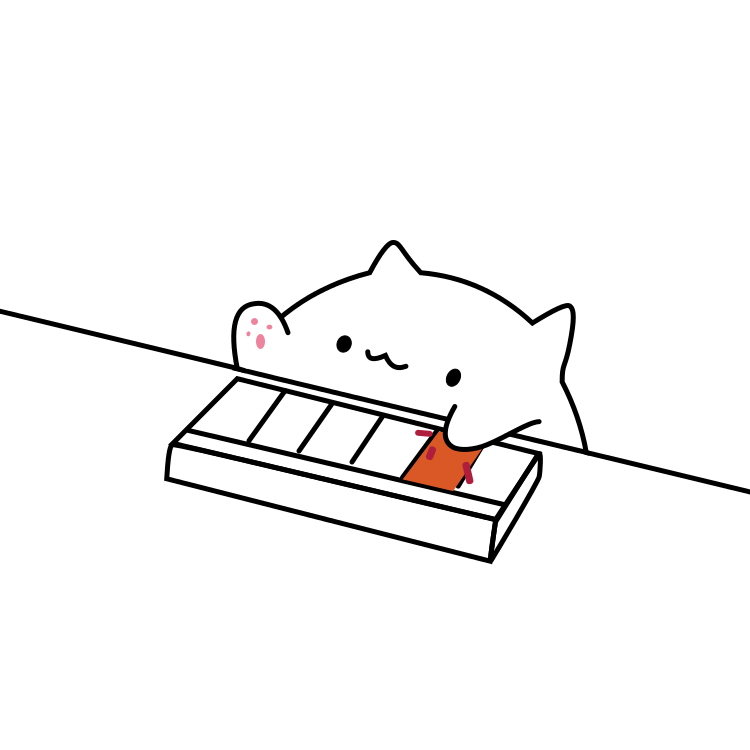
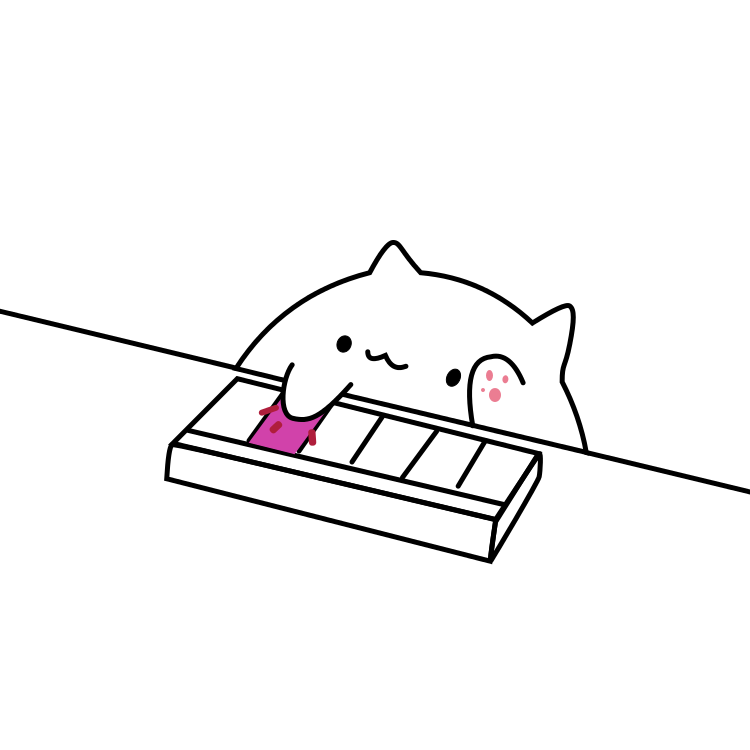
Reduced upper threshold

Changed region(s): [[0.5213, 0.46, 0.736, 0.6747], [0.3373, 0.4907, 0.4907, 0.6133], [0.3067, 0.3987, 0.3987, 0.4907]]

diff --git a/visualizers/bongo-cat.php b/visualizers/bongo-cat.php
@@ -33,7 +33,7 @@
 		function visualize(track_index, time, note) {
 			Tone.Draw.schedule(function() {
 				const $track = $('#track_' + track_index)
-				const image_down_index = 5 - Math.floor(note_list.indexOf(note.name) / 15)
+				const image_down_index = Math.floor(note_list.indexOf(note.name) / 13)
 
 				// Immediately set hands to up
 				$track.attr('src', 'visualizers/bongo-cat-u.png')
